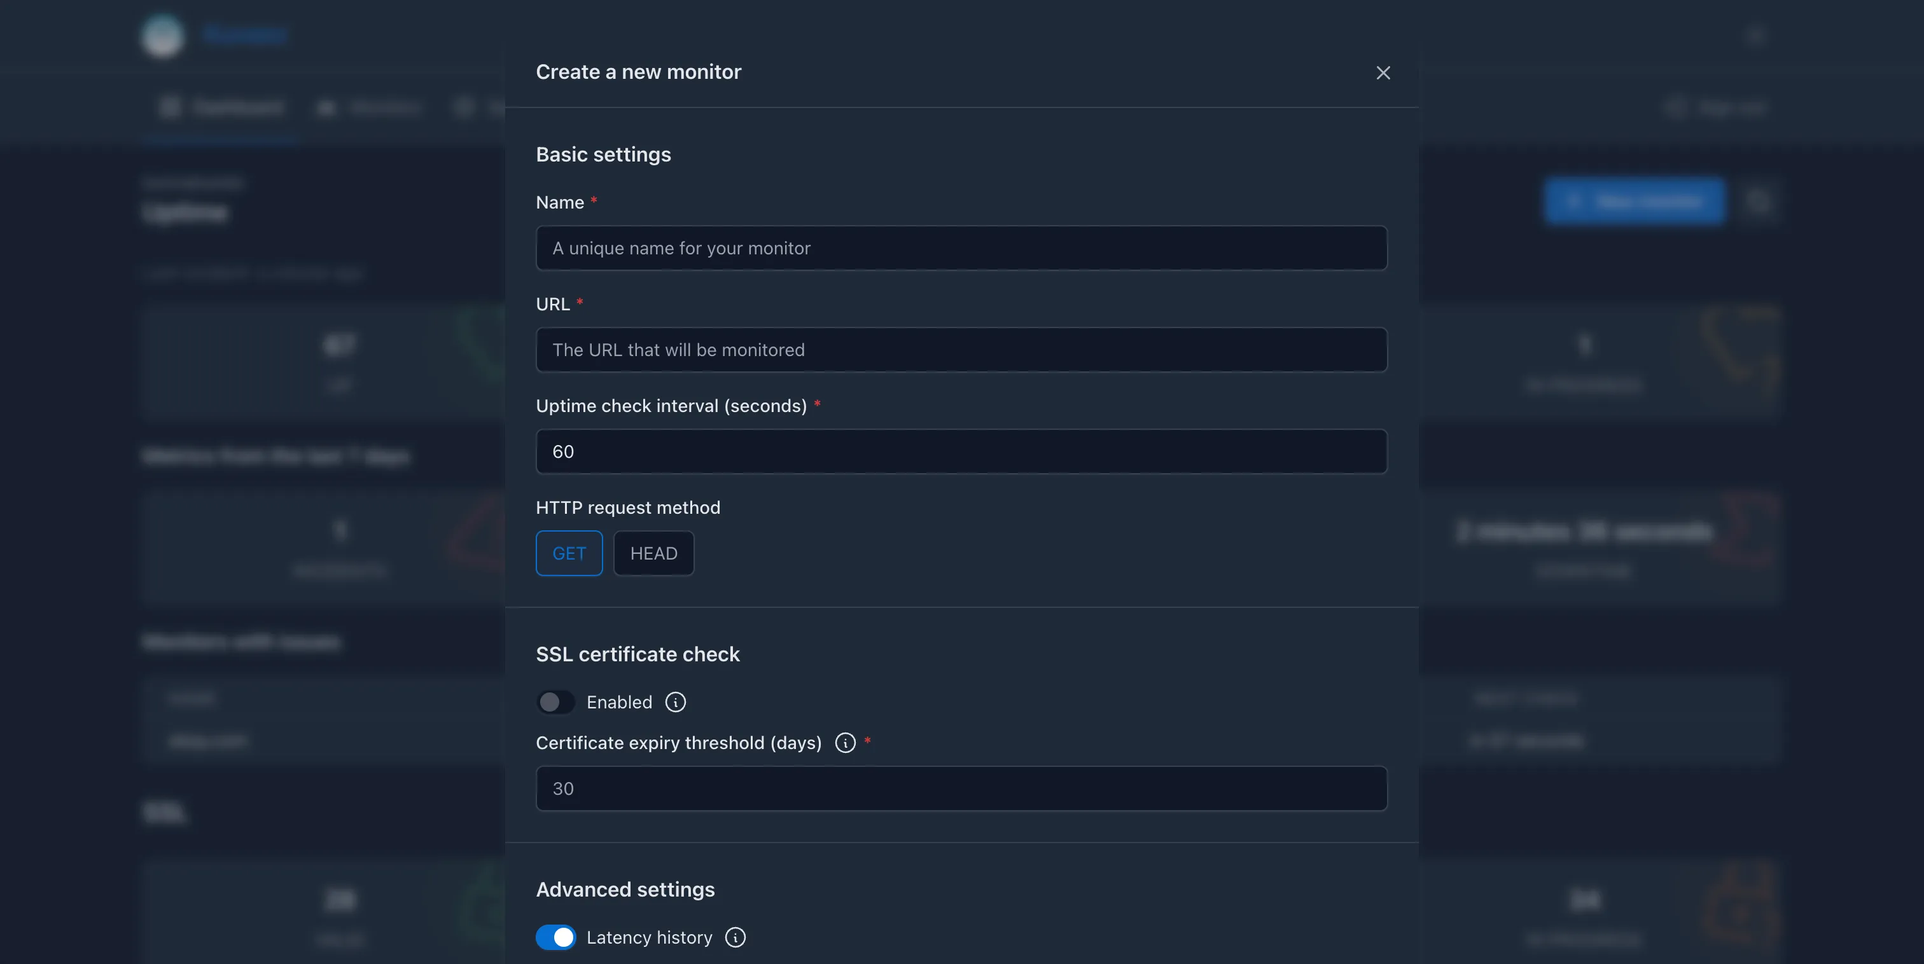
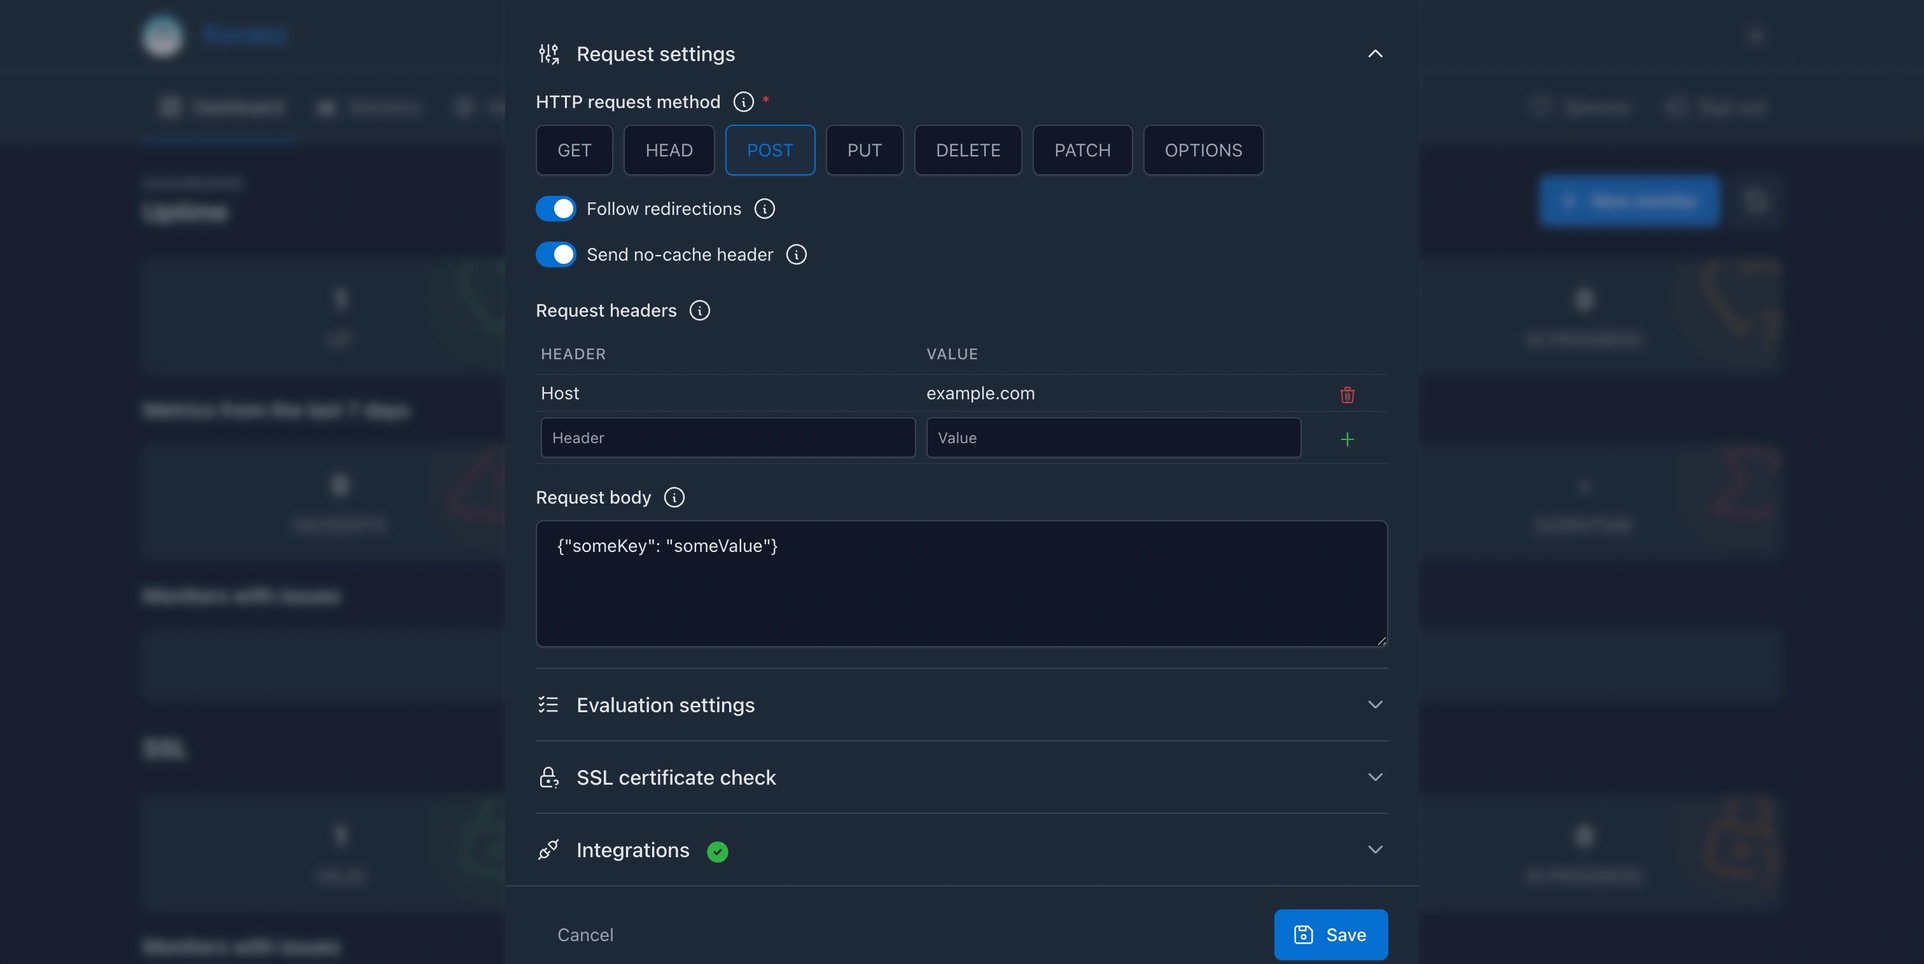
docs: introduce the new props + add uptimerobot comparison

diff --git a/docs/docs/management/http-monitors.md b/docs/docs/management/http-monitors.md
@@ -32,6 +32,11 @@
       expected-keyword-case-sensitive: false # (14)!
       expected-keyword-negated: false # (15)!
       response-time-threshold-millis: 500 # (16)!
+      request-headers: # (17)!
+        Host: "example.com"
+      expected-headers: # (18)!
+        Content-Type: "application/json"
+      request-body: "{\"key\":\"value\"}" # (19)!
       integrations: # (11)!
         - "email:my-email-integration"
     # ... other monitors
@@ -53,6 +58,9 @@
     14. **Expected keyword case sensitive**: Whether the keyword matching should be case-sensitive or not. Defaults to false.
     15. **Expected keyword negated**: Whether the keyword matching should be negated or not. If set to true, the monitor will alert you if the keyword is found in the response body. Defaults to false.
     16. **Response time threshold**: The maximum response time in milliseconds that the monitor should accept. If the response time is higher than this value, the monitor will alert you about it. Maximum is 30 seconds (30000 ms), default is `null` which means that there is no response time threshold.
+    17. **Request headers**: A map of request headers to send with the request. This is useful if you need to set specific headers for the request, like `Host`, `Authorization`, etc.
+    18. **Expected headers**: A map of expected response headers that the monitor should check for in the response.
+    19. **Request body**: The JSON request body to send with the request.
 
 === "API (expert)"
 
@@ -115,12 +123,22 @@ Whether the latency history is enabled or not. If it's disabled, the monitor **w
 
 <!-- md:version 2.0.0 -->
 <!-- md:default `GET` -->
-<!-- md:type enum: `GET`, `HEAD` -->
+<!-- md:type enum -->
 <!-- md:yaml_prop `request-method` -->
 
-The **HTTP method** to use for the uptime checks. `HEAD` **is recommended** for most cases, but not every endpoint supports it, so you can use `GET` if you need to.
+The **HTTP method** to use for the uptime checks.
 
-!!!tip "More method to come in the future..."
+!!!info "Supported methods"
+
+    The supported methods are:
+
+    - `GET`, `HEAD` - since [2.0.0](../changelog.md#2.0.0)
+    - `POST`, `PUT`, `PATCH`, `DELETE`, `OPTIONS` - since [2.5.0](../changelog.md#2.5.0)
+
+!!!warning "Consequences of certain methods"
+
+    - If you use the `HEAD` method, the response body will be empty, so the [**expected keyword check**](#expected-keyword) will always fail.
+    - If you would like to send a [**request body**](#request-body), you must use the `POST`, `PUT`, or `PATCH` methods.
 
 ### Follow redirects
 
@@ -139,6 +157,40 @@ Whether the monitor **should follow redirects** or not. If it's disabled, the mo
 <!-- md:yaml_prop `force-no-cache` -->
 
 Whether the monitor should send a `Cache-Control: no-cache` header with the request. This is useful to ensure that the **response is not cached by the server** or any intermediate proxies, and you always get the latest response.
+
+### Request headers
+
+<!-- md:version 2.5.0 -->
+<!-- md:type map -->
+<!-- md:yaml_prop `request-headers` -->
+
+A set of request headers to send with the request. This is useful if you need to set **specific headers for the request**, like `Host`, `Authorization`, etc. The headers will be sent as-is, without any parsing, the only requirement is that the keys must be valid HTTP header names (starting with a letter and containing only letters, digits or dashes).
+
+!!! info "Default headers"
+
+    _Kuvasz_ will automatically add the following headers to every request:
+
+    - `User-Agent`: `Kuvasz Uptime Checker/2 https://github.com/kuvasz-uptime/kuvasz`
+    - `Accept`: `*/*`
+    - `Accept-Encoding`: `gzip, deflate, br` (only if there is no [keyword matcher](#expected-keyword) defined)
+    - `Host`: the host part of the URL being monitored
+    - `Cache-Control`: `no-cache` (if the [**force no-cache header**](#force-no-cache-header) option is enabled)
+
+    If you define any of these headers along your custom request headers, they **will be overridden** by your values!
+
+### Request body
+
+<!-- md:version 2.5.0 -->
+<!-- md:type string -->
+<!-- md:yaml_prop `request-body` -->
+
+The JSON request body to send with the request. This is useful if you need to **send a specific payload with the request**. The body will be sent as-is, without any sanitization, trimming or parsing, the only requirement is that it must be a valid JSON string.
+
+**Supported request methods**: `POST`, `PUT` and `PATCH`
+
+!!!info
+
+    If you use one of the supported request methods and you don't provide a request body, an **empty JSON object** (`{}`) will be sent as the request body by default.
 
 ## Evaluation settings
 
@@ -269,6 +321,14 @@ A.k.a. _"reverse matching"_. If this is set to `true`, the monitor will alert yo
 <!-- md:yaml_prop `response-time-threshold-millis` -->
 
 The maximum response time in **milliseconds** that the monitor should accept. If the response time is higher than this value, the monitor will alert you about it. This is useful to ensure that your services are performing well and responding within an acceptable time frame. The maximum value is 30 seconds (30000 ms), and the default is `null`, which means that there is no response time threshold.
+
+### Expected headers
+
+<!-- md:version 2.5.0 -->
+<!-- md:type map -->
+<!-- md:yaml_prop `expected-headers` -->
+
+A set of expected response headers that the monitor should check for in the response. If any of the **expected headers are missing or have different values**, the monitor will alert you about it. The header names will be checked in a case-insensitive manner, but the values will be checked as-is, without any parsing, trimming or normalization. The keys must be valid HTTP header names (starting with a letter and containing only letters, digits or dashes).
 
 ## SSL check settings
 

diff --git a/README.md b/README.md
@@ -30,6 +30,10 @@ Use the following credentials to log in:
 
 Kuvasz (pronounce as [ˈkuvɒs]) is an ancient hungarian breed of livestock & guard dog. You can read more about them on [Wikipedia](https://en.wikipedia.org/wiki/Kuvasz).
 
+## ⚡  Quick start guide
+
+If you want to get started quickly, please refer to the [**Installation guide**](https://kuvasz-uptime.dev/setup/installation/) in the documentation.
+
 ## ✨ Features
 
 - **HTTP(S) monitoring**: Monitor the availability and performance of your websites and services by sending HTTP(S) requests.
@@ -38,11 +42,50 @@ Kuvasz (pronounce as [ˈkuvɒs]) is an ancient hungarian breed of livestock & gu
 - **Sleek UI**: Kuvasz has a modern, responsive, and user-friendly interface that makes it easy to manage your monitors.
 - **Full-fledged REST API**: Manage your monitors, check their status, and more through a powerful API.
 - **Metrics exporters**: Export your metrics to _OpenTelemetry_ and _Prometheus_ for better observability and integration with your existing monitoring stack.
-- More to come: _Kuvasz_ is under active development, and more features are planned for the future, such as **POST requests** with arbitrary payload, **ICMP monitoring**, **heartbeat monitors** and more.
+- More to come: _Kuvasz_ is under active development, and more features are planned for the future, such as **ICMP monitoring**, **heartbeat monitors** and more.
 
-## ⚡  Quick start guide
+## 🚀  Kuvasz vs. UptimeRobot
 
-If you want to get started quickly, please refer to the [**Installation guide**](https://kuvasz-uptime.dev/setup/installation/) in the documentation.
+|                                           |    Kuvasz     | UptimeRobot Free | UptimeRobot Solo |
+|-------------------------------------------|:-------------:|:----------------:|:----------------:|
+| Price                                     |     Free      |       Free       |     $84/year     |
+| Monitoring interval                       | **5 seconds** |    5 minutes     |    60 seconds    |
+| Monitors limit                            | **unlimited** |        50        |        10        |
+| Location-specific monitoring              |      ✅\*      |        ❌         |        ✅         |
+| Translations                              |       ✅       |        ❌         |        ❌         |
+| Custom data retention                     |       ✅       |     3 months     |    12 months     |
+| REST API                                  |       ✅       |        ✅         |        ✅         |
+| Status pages                              |      📆       |      only 1      |      only 3      |
+| Maintenance windows                       |      📆       |        ❌         |        ✅         |
+| **HTTPs monitoring**                      |               |                  |                  |
+| Keyword matching                          |       ✅       |        ✅         |        ✅         |
+| Header matching                           |       ✅       |        ❌         |        ❌         |
+| Slow response alerts                      |       ✅       |        ❌         |        ✅         |
+| Custom HTTP methods                       |       ✅       |  ❌ (HEAD only)   |        ✅         |
+| Custom status matcher                     |       ✅       |        ❌         |        ✅         |
+| Custom headers                            |       ✅       |        ❌         |        ✅         |
+| Custom request body                       |       ✅       |        ❌         |        ✅         |
+| **SSL monitoring**                        |       ✅       |        ❌         |        ✅         |
+| **Ping (ICMP) monitoring**                |      📆       |        ✅         |        ✅         |
+| **Heartbeat monitoring**                  |      📆       |        ❌         |        ✅         |
+| **Port monitoring**                       |       ❌       |        ✅         |        ✅         |
+| **DNS monitoring**                        |       ❌       |        ❌         |        ✅         |
+| **Notifications**                         |               |                  |                  |
+| Email                                     |       ✅       |        ✅         |        ✅         |
+| Discord                                   |       ✅       |        ✅         |        ✅         |
+| Slack                                     |       ✅       |        ❌         |        ✅         |
+| Telegram                                  |       ✅       |        ❌         |        ✅         |
+| Pagerduty                                 |       ✅       |        ❌         |        ❌         |
+| MS Teams                                  |      📆       |        ❌         |        ✅         |
+| Webhook                                   |      📆       |        ❌         |        ❌         |
+| SMS / Voice call                          |     📆\**     |        ❌         |  10 incl./month  |
+| Google Chat, Pushover, Pushbullet, Splunk |       ❌       |        ✅         |        ✅         |
+| Mattermost                                |       ❌       |        ❌         |        ✅         |
+
+✅ Supported | ❌ Not supported | 📆 Planned
+
+- \* You can deploy _Kuvasz_ to multiple locations and monitor your services from those locations, but it does not support location-specific monitoring out of the box.
+- \** _Kuvasz_ will only provide the integration, but you will need to pay for the SMS or voice call service yourself
 
 ## 📣  Don't miss out on the latest updates!
 

diff --git a/docs/docs/index.md b/docs/docs/index.md
@@ -100,6 +100,49 @@
 
 </div>
 
+## Kuvasz vs. UptimeRobot
+
+|                                           |    Kuvasz     | UptimeRobot Free | UptimeRobot Solo |
+|-------------------------------------------|:-------------:|:----------------:|:----------------:|
+| Price                                     |     Free      |       Free       |     $84/year     |
+| Monitoring interval                       | **5 seconds** |    5 minutes     |    60 seconds    |
+| Monitors limit                            | **unlimited** |        50        |        10        |
+| Location-specific monitoring              |     ✅^1^      |        ❌         |        ✅         |
+| Translations                              |       ✅       |        ❌         |        ❌         |
+| Custom data retention                     |       ✅       |     3 months     |    12 months     |
+| REST API                                  |       ✅       |        ✅         |        ✅         |
+| Status pages                              |      📆       |      only 1      |      only 3      |
+| Maintenance windows                       |      📆       |        ❌         |        ✅         |
+| **HTTPs monitoring**                      |               |                  |                  |
+| Keyword matching                          |       ✅       |        ✅         |        ✅         |
+| Header matching                           |       ✅       |        ❌         |        ❌         |
+| Slow response alerts                      |       ✅       |        ❌         |        ✅         |
+| Custom HTTP methods                       |       ✅       |  ❌ (HEAD only)   |        ✅         |
+| Custom status matcher                     |       ✅       |        ❌         |        ✅         |
+| Custom headers                            |       ✅       |        ❌         |        ✅         |
+| Custom request body                       |       ✅       |        ❌         |        ✅         |
+| **SSL monitoring**                        |       ✅       |        ❌         |        ✅         |
+| **Ping (ICMP) monitoring**                |      📆       |        ✅         |        ✅         |
+| **Heartbeat monitoring**                  |      📆       |        ❌         |        ✅         |
+| **Port monitoring**                       |       ❌       |        ✅         |        ✅         |
+| **DNS monitoring**                        |       ❌       |        ❌         |        ✅         |
+| **Notifications**                         |               |                  |                  |
+| Email                                     |       ✅       |        ✅         |        ✅         |
+| Discord                                   |       ✅       |        ✅         |        ✅         |
+| Slack                                     |       ✅       |        ❌         |        ✅         |
+| Telegram                                  |       ✅       |        ❌         |        ✅         |
+| Pagerduty                                 |       ✅       |        ❌         |        ❌         |
+| MS Teams                                  |      📆       |        ❌         |        ✅         |
+| Webhook                                   |      📆       |        ❌         |        ❌         |
+| SMS / Voice call                          |     📆^2^     |        ❌         |  10 incl./month  |
+| Google Chat, Pushover, Pushbullet, Splunk |       ❌       |        ✅         |        ✅         |
+| Mattermost                                |       ❌       |        ❌         |        ✅         |
+
+✅ Supported | ❌ Not supported | 📆 Planned
+
+- ^1^ You can deploy _Kuvasz_ to multiple locations and monitor your services from those locations, but it does not support location-specific monitoring out of the box.
+- ^2^ _Kuvasz_ will only provide the integration, but you will need to pay for the SMS or voice call service yourself
+
 ## Don't miss out on the latest updates!
 
 First and foremost, if you want to **stay up-to-date with the latest news**, features, and updates about _Kuvasz_, please consider:

diff --git a/docs/docs/features/http-monitoring.md b/docs/docs/features/http-monitoring.md
@@ -12,25 +12,21 @@ _Kuvasz_ monitors your websites and services by **periodically sending requests*
 - HTTP method (`GET` or `HEAD` as of now)
 - URL to monitor
 - whether to follow redirects
-- whether to send a no-cache header
+- request headers
+- request body
 - response time threshold in milliseconds (maximum 30 seconds)
 - accepted status codes (default is 2xx)
 - keyword matching in the response body, with the option to ignore case and also to reverse the match (i.e. to alert if the desired keyword is present in the response body)
+- expected headers in the response
 
-![Kuvasz evaluation settings](../images/features/kuvasz_new_matchers.webp)
-
-### What is planned to be configurable in the future?
-
-- custom request headers (currently no custom headers are sent), which makes it possible for example, to use common authentication methods against your monitored endpoints, or a custom user agent
-- custom request payload (e.g. to send a `POST` request with a specific payload)
+![Kuvasz evaluation settings](../images/features/new_monitor_modal.webp)
 
 ## Notable features
 
 - **HTTP(S) monitoring**: Monitor the availability and performance of your websites and services by sending HTTP(S) requests.
 - **Response time tracking**: Track the latency of your services by measuring the time it takes to receive a response from them.
 - **Notifications on a per-monitor basis**: Configure different notification channels for each monitor, allowing you to tailor alerts to your specific needs.
-- More to come: _Kuvasz_ is under active development, and more features are planned for the future, such as **POST requests with arbitrary payload**, and more.
 
 ## Configuration <!-- md:config ../management/http-monitors.md -->
 
-Please refer to the [**Managing monitors**](../management/http-monitors.md) section of the documentation for more information on how to configure uptime monitoring.
+Please refer to the [**Managing HTTP monitors**](../management/http-monitors.md) section of the documentation for more information on how to configure uptime monitoring.

diff --git a/docs/docs/changelog.md b/docs/docs/changelog.md
@@ -2,6 +2,18 @@
 
     Prior to version 2.0.0, the changelogs were maintained **only in the** [**GitHub repository**](https://github.com/kuvasz-uptime/kuvasz/releases){ target="_blank" }.
 
+## 2.5.0 <small>2025-08-22</small> { id="2.5.0" data-toc-label="2.5.0" }
+
+### New features
+
+- **Custom request headers**: you can now specify custom headers to be sent with the HTTP requests, allowing for more flexible and tailored monitoring setups. See the [**HTTP monitors > Request headers**](management/http-monitors.md#request-headers) section for more details.
+- **Custom request body**: you can send your own JSON body to the monitored HTTP endpoint, which can be useful for testing APIs that require a specific payload. See the [**HTTP monitors > Request body**](management/http-monitors.md#request-body) section for more details.
+- **Expected headers**: this is a brand new evaluation option that allows you to specify expected headers in the HTTP response. If the response does not contain the expected headers, the monitor will be marked as `DOWN`. You can find more details in the [**HTTP monitors > Expected headers**](management/http-monitors.md#expected-headers) section.
+- **New HTTP request methods**: `POST`, `PUT`, `PATCH`, `DELETE` and `OPTIONS` are now supported in addition to the existing `GET` and `HEAD`. This allows you to monitor endpoints that require different HTTP methods, such as APIs that expect a `POST` request with a specific payload. See the [**HTTP monitors > Request method**](management/http-monitors.md#request-method) section for more details.
+- **Revamped UI for creating and editing HTTP monitors**: the UI of the existing modal has been slightly redesigned to make it easier and more convenient to configure HTTP monitors with the new features. The fresh look is hopefully more intuitive and user-friendlier by having a **better structure**.
+
+![Kuvasz HTTP monitor creation modal](images/features/new_monitor_modal.webp)
+
 ## 2.4.0 <small>2025-08-15</small> { id="2.4.0" data-toc-label="2.4.0" }
 
 ### New features

diff --git a/docs/docs/features/flexibility.md b/docs/docs/features/flexibility.md
@@ -1,4 +1,4 @@
-_Kuvasz_ is flexible to [configure](../setup/configuration.md) and also to extend. You can configure your monitors with various options, for example as the **HTTP method, interval, headers**, etc. More features are coming soon, such as completely **custom headers, POST requests with arbitrary payload**, and more. 
+_Kuvasz_ is flexible to [configure](../setup/configuration.md) and also to extend. You can configure your monitors with various options, for example the **HTTP method, interval, headers, body**, etc. 
 
 However, the flexibility is not only about the monitoring possibilities, but also about the way you can describe your monitors. If you prefer to use the comfortable **Web UI**, you can do that, but if you prefer to manage **all your configuration as code**, you can do that as well. In that case, it gets really simple to **keep your monitors version controlled** along with your existing infrastructure code.
 
@@ -6,7 +6,7 @@ You can also choose to set up your monitors **initially via the UI**, and then *
 
 !!! tip 
 
-    You can find the monitoring configuration options in the [**Managing monitors**](../management/http-monitors.md) section of the documentation.
+    You can find the monitoring configuration options in the [**Managing monitors**](../management/managing-monitors/index.md) section of the documentation.
 
 ## Metrics exporters <!-- md:config ../management/metrics-exporters.md -->
 

diff --git a/docs/docs/management/examples.md b/docs/docs/management/examples.md
@@ -150,7 +150,7 @@ monitors:
     uptime-check-interval: 30
     enabled: true
     ssl-check-enabled: false
-    request-method: "GET"
+    request-method: "POST"
     latency-history-enabled: true
     follow-redirects: true
     force-no-cache: true
@@ -166,6 +166,11 @@ monitors:
     expected-keyword-case-sensitive: true
     expected-keyword-negated: false
     response-time-threshold-millis: 500
+    request-headers:
+      Host: "example.com"
+    expected-headers:
+      Content-Type: "application/json"
+    request-body: "{\"key\":\"value\"}"
   - name: "minimal configuration example"
     url: "https://kuvasz-uptime.dev"
     uptime-check-interval: 5

diff --git a/docs/docs/features/api.md b/docs/docs/features/api.md
@@ -91,6 +91,13 @@ curl -X GET "http://your.kuvasz.host/api/v1/monitors/107" \
   "responseTimeThresholdMillis": 500,
   "expectedKeyword": "Kuvasz",
   "expectedKeywordCaseSensitive": true,
-  "expectedKeywordNegated": false
+  "expectedKeywordNegated": false,
+  "requestHeaders": {
+    "Authorization": "Bearer jklfjkds8fdshlkfds"
+  },
+  "expectedHeaders": {
+    "Access-Control-Max-Age": "30"
+  },
+  "requestBody": "{\"key\": \"value\"}"
 }
 ```
